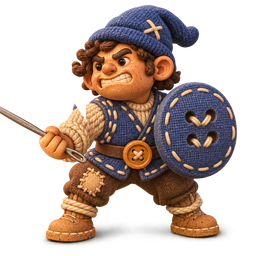
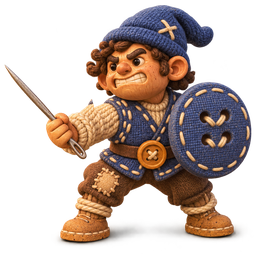
Воин: укол с вытянутой рукой и целым остриём, красный ярче, шаг с подскоком
Claude-Session: https://claude.ai/code/session_019VbyzJ8W3QpPGzTEiFrfae

diff --git a/tools/art/warrior_frames.py b/tools/art/warrior_frames.py
@@ -14,17 +14,17 @@ import numpy as np
 from PIL import Image
 
 SIZE = 256
-CROP = (64, 110, 1124, 1170)  # квадрат 1060x1060 вокруг фигурки во всех позах
+CROP = (4, 110, 1064, 1170)  # квадрат 1060x1060 вокруг фигурки во всех позах
 SOLE = 1115  # нижний край подошвы в исходных позах: все кадры подтягиваем к нему
 # Рука с иголкой: игла выше плеча и рукав до жилета. Кусок руки заходит под жилет на
 # OVERLAP точек, чтобы при повороте в плече не было щели.
 NEEDLE = (140, 260, 330, 520)
 ARM = (140, 515, 455, 705)
 EYE = (140, 700, 390, 775)  # ушко иглы под кулаком
-OVERLAP = 35
+OVERLAP = 70
 SHOULDER = (450, 610)
 # Поза удара: поворот руки в градусах (+ вперёд, к врагу) и сдвиг в исходных точках.
-STRIKE = [(-22, (6, -4)), (34, (-30, 8))]
+STRIKE = [(-22, (6, -4)), (16, (-45, 0))]
 RED_HUE = 0.0  # оттенок красной команды (0..1, 0 — красный)
 
 
@@ -68,7 +68,7 @@ def recolor(img: Image.Image, hue: float) -> Image.Image:
     blue = (hsv[:, 0] > 0.55) & (hsv[:, 0] < 0.75) & (hsv[:, 1] > 0.2)
     hsv[blue, 0] = hue
     hsv[blue, 1] = np.minimum(1, hsv[blue, 1] * 1.45)
-    hsv[blue, 2] = np.minimum(1, hsv[blue, 2] * 1.2)
+    hsv[blue, 2] = np.minimum(1, hsv[blue, 2] * 1.5)
     out = np.array([colorsys.hsv_to_rgb(*p) for p in hsv]).reshape(a.shape[0], a.shape[1], 3)
     a[:, :, :3] = out
     return Image.fromarray((a * 255).astype(np.uint8))
